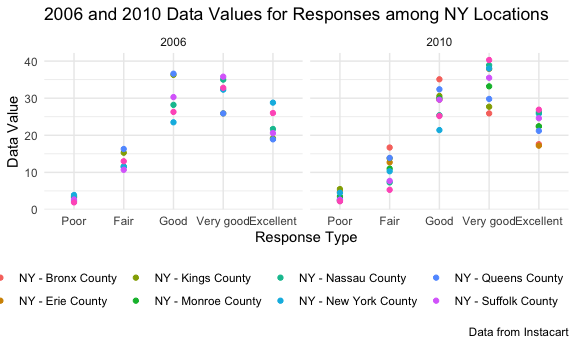
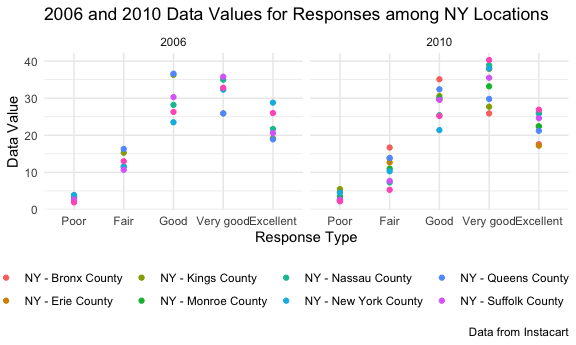
updated the legend in the plot from problem 2 and started problem 3

Changed region(s): [[0.0, 0.7826, 1.0, 0.8986]]

diff --git a/hw3.md b/hw3.md
@@ -300,7 +300,39 @@ ggplot(ny_2006_2010_df, aes(x = response, y = data_value, color = state_w_county
     x = "Response Type",
     y = "Data Value",
     caption =  "Data from Instacart"
-  )
+  ) +
+  scale_colour_discrete(name = "State and County")
 ```
 
 <img src="hw3_files/figure-gfm/unnamed-chunk-12-1.png" width="90%" />
+
+## Problem 3
+
+First, I will load and tidy the accelerometer data.
+
+``` r
+accel_data_df = read_csv("data/accel_data.csv") %>% 
+  janitor::clean_names() %>% 
+  mutate(
+    day_type = case_when(
+      day == "Monday" | day == "Tuesday" | day == "Wednesday" | day == "Thursday" |
+        day == "Friday" ~ "weekday",
+      day == "Sunday" | day == "Saturday" ~ "weekend",
+      TRUE ~ ""))  
+## Rows: 35 Columns: 1443
+## ── Column specification ────────────────────────────────────────────────────────
+## Delimiter: ","
+## chr    (1): day
+## dbl (1442): week, day_id, activity.1, activity.2, activity.3, activity.4, ac...
+## 
+## ℹ Use `spec()` to retrieve the full column specification for this data.
+## ℹ Specify the column types or set `show_col_types = FALSE` to quiet this message.
+```
+
+# mutate(day, factor(day), levels = c(“Monday” = “Monday”, “Tuesday” = “Tuesday”,
+
+# “Wednesday” = “Wednesday”,“Thursday” =
+
+# “Thursday”, “Friday” = “Friday”,
+
+# “Saturday” = “Saturday”, “Sunday” = “Sunday”))
